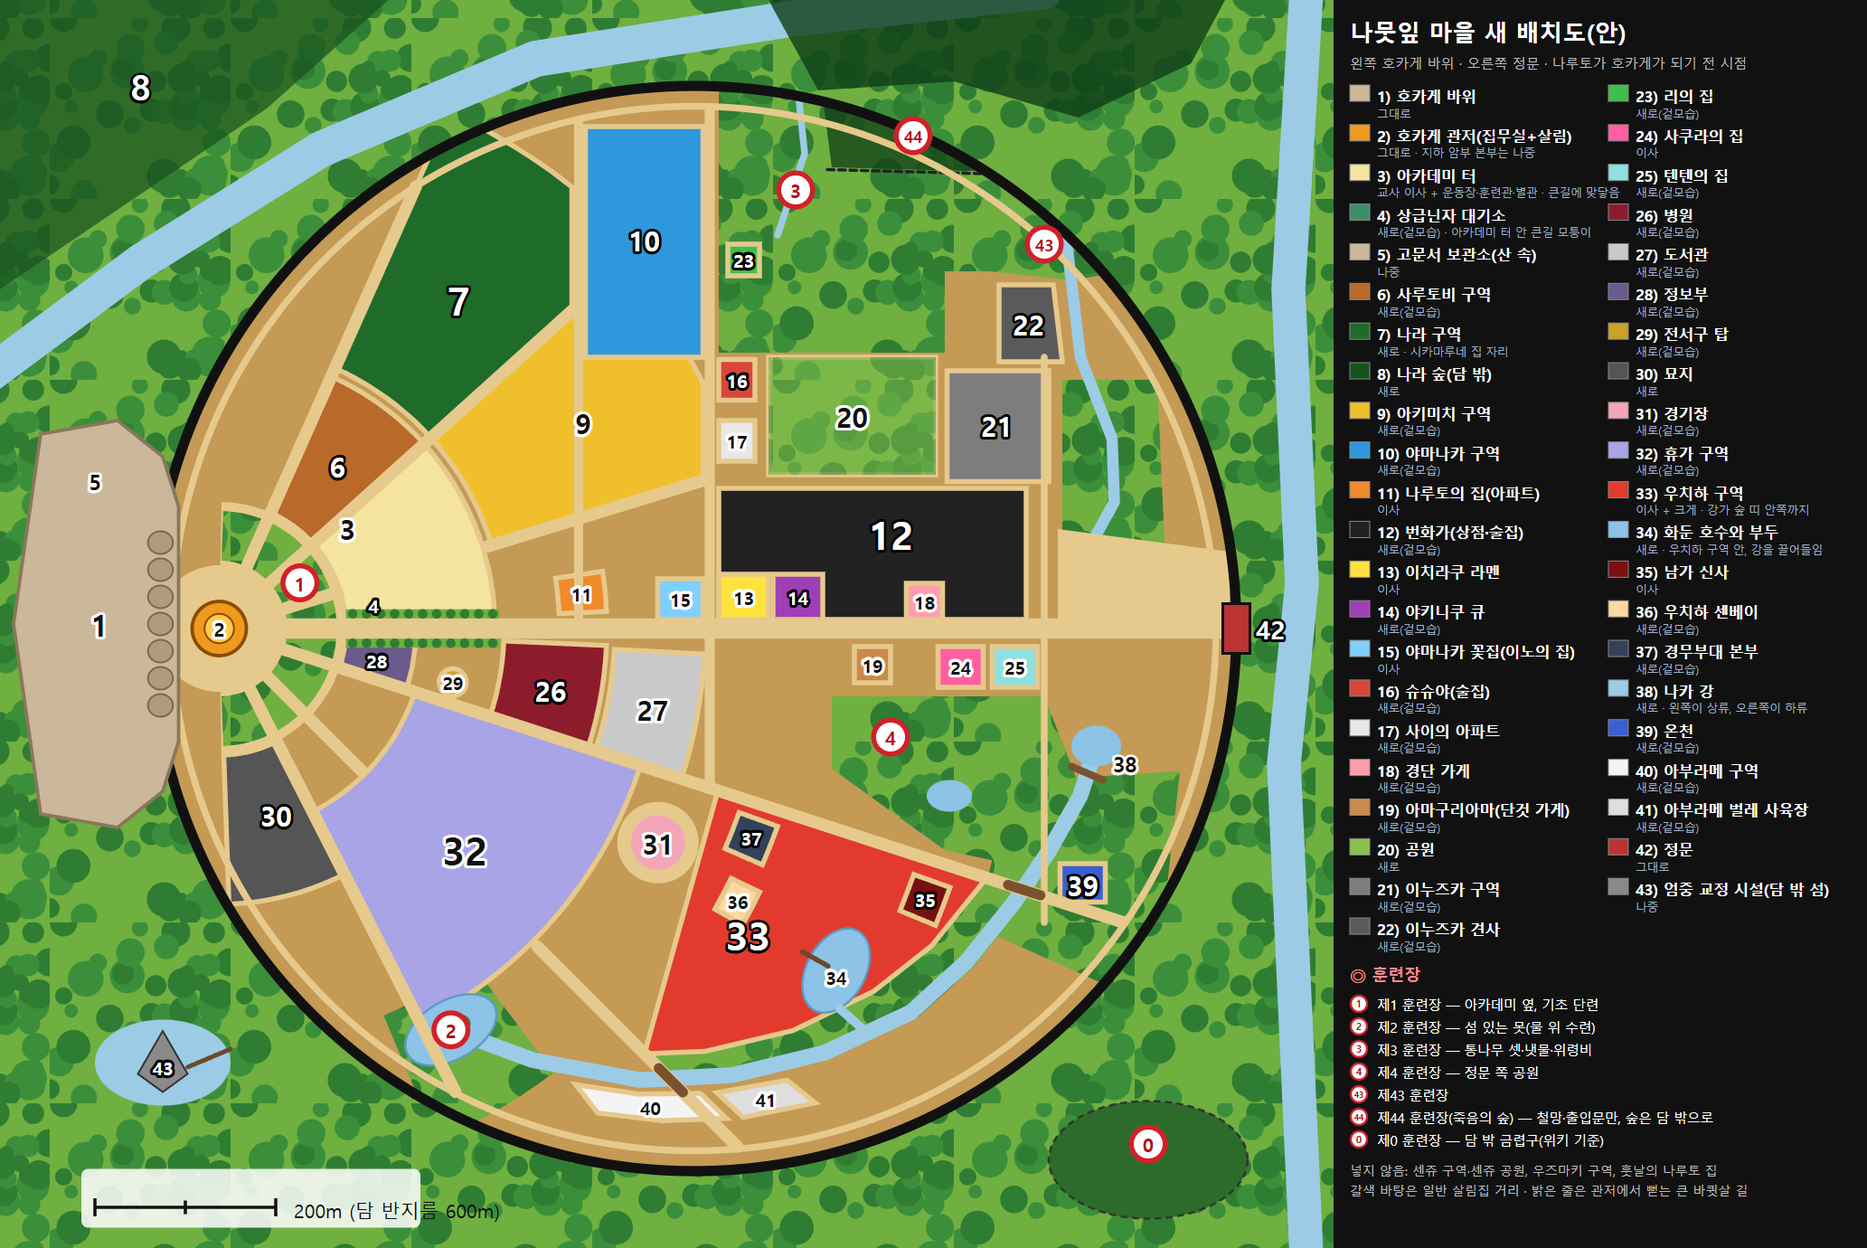
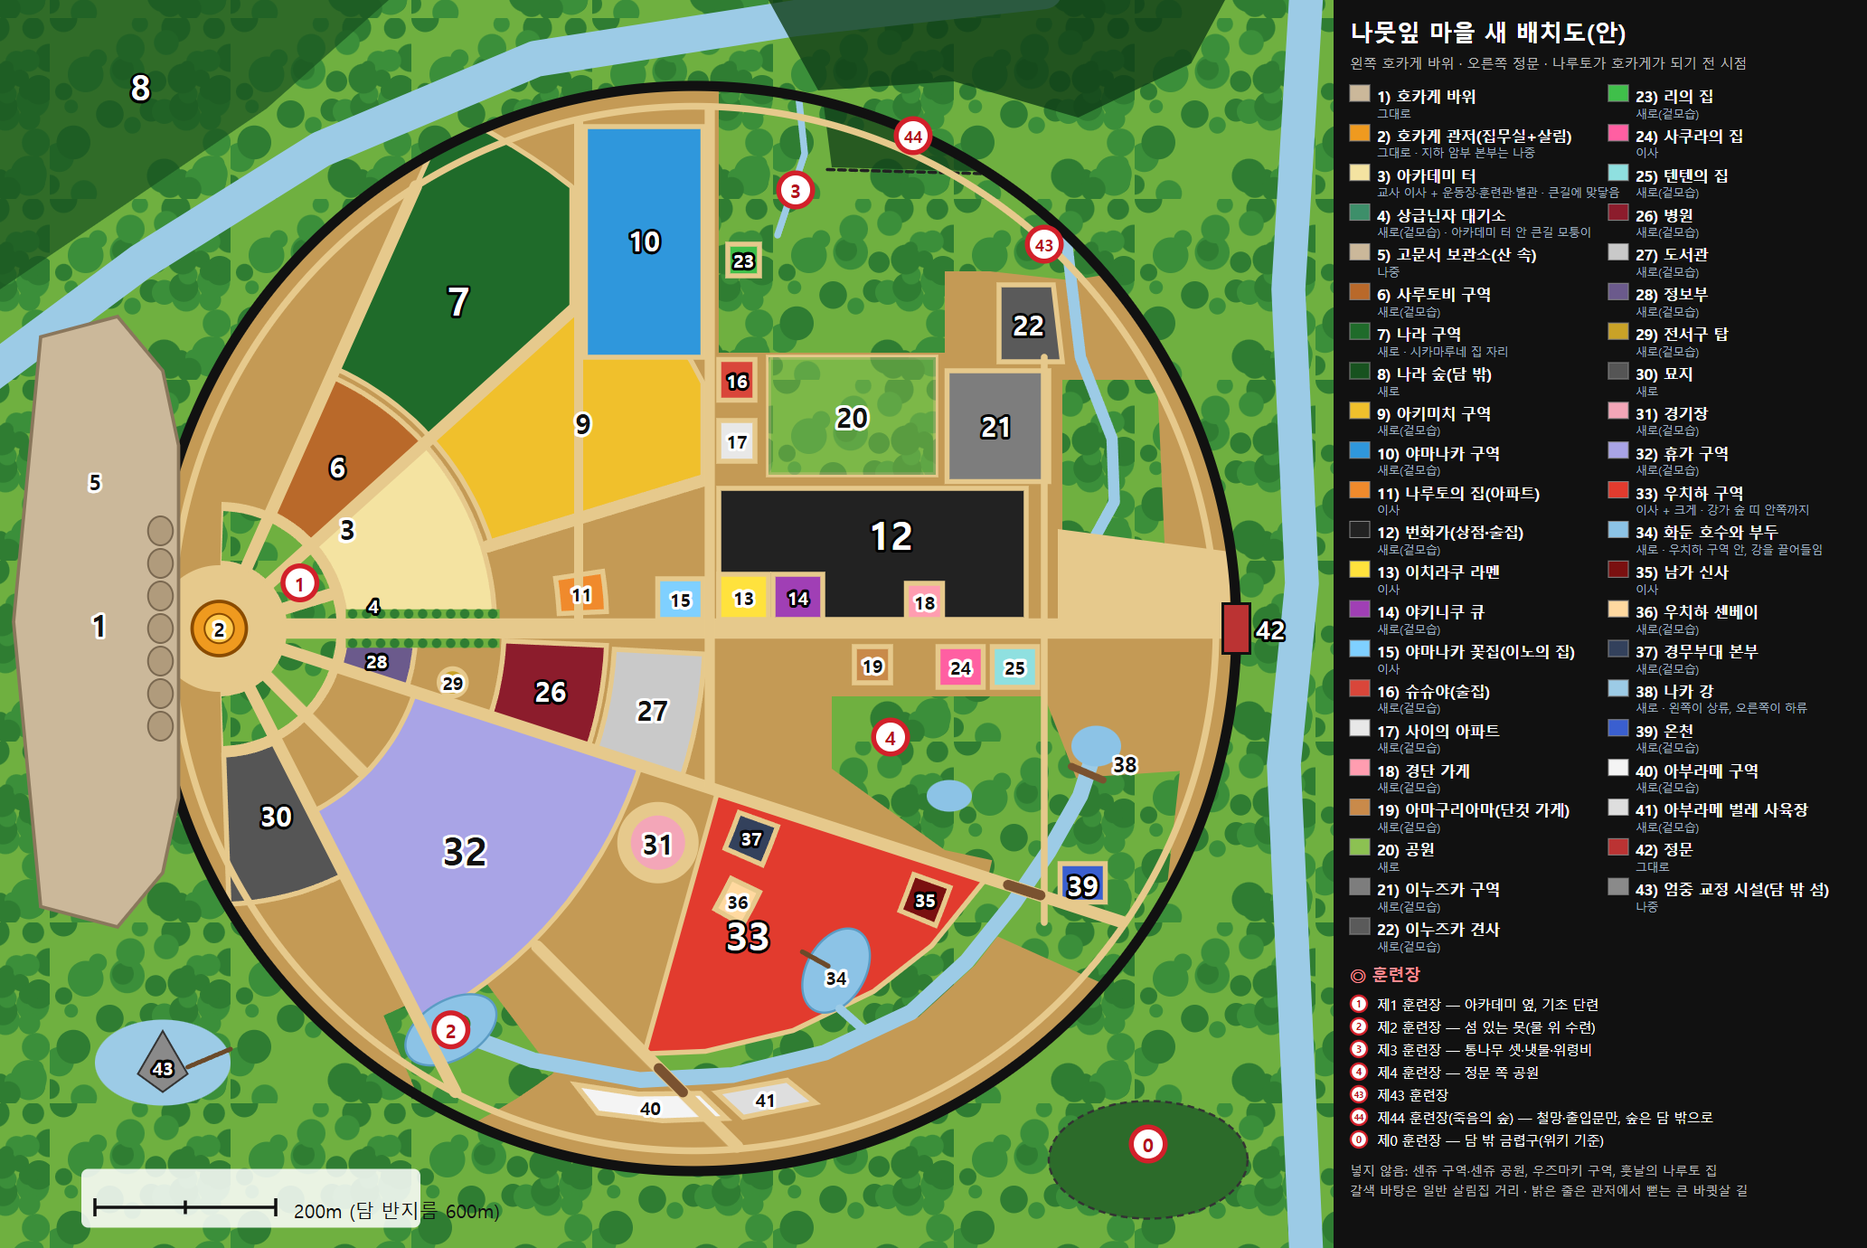
호카게 바위 1.8배, 관저 몸체 1.3배로 키움
- 바위: 얼굴·굴곡은 처음 치수로 계산하고 절벽을 뜰 때 키운다(꼭대기 108m, 삼각형 수는 그대로). 계단은 새 높이에 맞춰 아홉 층으로 다시 지음
- 관저: 벽·바닥·지붕·계단만 키우고 가구·난간·등불·실내 팻말은 사람 크기 그대로 키운 자리에 놓음
- 배치도의 바위 그림도 넓힘

Changed region(s): [[0.0, 0.2493, 0.124, 0.4674], [0.0, 0.5609, 0.124, 0.7478], [0.062, 0.4051, 0.093, 0.592]]

diff --git a/js/rock.js b/js/rock.js
@@ -4,10 +4,12 @@ import * as THREE from '../vendor/three.module.js';
 import { Builder, addCollider, stairs } from './build.js';
 import { mat, M, weatherize } from './materials.js';
 import { beamBetween, railing } from './arch.js';
-import { CLIFF } from './layout.js';
+import { CLIFF, STAIR } from './layout.js';
 import { mountainH } from './village.js';
 
 const NEG = -40;
+// 얼굴과 바위 굴곡은 처음 빚은 크기(꼭대기 60m)로 계산하고, 절벽을 뜰 때 K배로 키운다.
+const K = CLIFF.k, TOP0 = CLIFF.top / K;
 const clamp = (x, a, b) => Math.max(a, Math.min(b, x));
 const sstep = (a, b, x) => { const t = clamp((x - a) / (b - a), 0, 1); return t * t * (3 - 2 * t); };
 // 부드럽게 이어 붙이는 최댓값(k가 클수록 둥글게 섞인다)
@@ -74,7 +76,8 @@ const HOKAGE = [
     fans: [[8, -108, 108, 3.6, 2.3, 0, 0, 17], [7, -85, 85, 2.6, 1.8, 0, 1.1, 18]],
     lines: [[[-2.4, -1.4], [-4.7, -0.9]], [[-2.4, -2.4], [-4.8, -2.4]], [[-2.4, -3.4], [-4.5, -3.9]], [[2.4, -1.4], [4.7, -0.9]], [[2.4, -2.4], [4.8, -2.4]], [[2.4, -3.4], [4.5, -3.9]]] },
 ];
-export const HEAD_X = i => -60 + 20 * i, HEAD_Y = 37.5, HEAD_S = 1.42;
+const HX0 = i => -60 + 20 * i, HY0 = 37.5, HS0 = 1.42;                                  // 처음 크기에서의 얼굴 자리·크기
+export const HEAD_X = i => HX0(i) * K, HEAD_Y = HY0 * K, HEAD_S = HS0 * K;               // 마을 좌표(m)
 
 const hs = (i, s) => { const j = Math.sin(i * 12.9898 + s * 78.233) * 43758.5453; return j - Math.floor(j); };
 // 매듭점 사이를 잇는 값. smooth면 부드럽게, 아니면 곧게(각진 윤곽).
@@ -204,8 +207,8 @@ function vn(x, y) {
 function rockDepth(x, y) {
   const gully = 1 - Math.abs(2 * vn(x * 0.09 + 5.2, y * 0.012) - 1);
   const ledge = vn(x * 0.03 + 9.1, y * 0.33);
-  let d = 0.055 * (CLIFF.top - y) + 1.5 * gully * gully + 0.8 * ledge + 0.7 * vn(x * 0.11, y * 0.11);
-  d *= 1 - sstep(74, 80, x) * sstep(124, 118, x);                  // 계단이 붙는 자리는 반반하게 깎는다
+  let d = 0.055 * (TOP0 - y) + 1.5 * gully * gully + 0.8 * ledge + 0.7 * vn(x * 0.11, y * 0.11);
+  d *= 1 - sstep((STAIR.x0 - 12) / K, (STAIR.x0 - 6) / K, x) * sstep((STAIR.x1 + 12) / K, (STAIR.x1 + 6) / K, x);                  // 계단이 붙는 자리는 반반하게 깎는다
   return d;
 }
 function cliffDepth(x, y) {
@@ -213,29 +216,29 @@ function cliffDepth(x, y) {
   const i0 = Math.floor((x + 60) / 20);
   for (const i of [i0, i0 + 1]) {
     if (i < 0 || i > 6) continue;
-    const u = (x - HEAD_X(i)) / HEAD_S, v = (y - HEAD_Y) / HEAD_S;
+    const u = (x - HX0(i)) / HS0, v = (y - HY0) / HS0;
     if (Math.abs(u) > 11.5 || v < -16.5 || v > 15.5) continue;
     h = Math.max(h, headDepth(HOKAGE[i], u, v));
     near = Math.max(near, sstep(1.25, 0.8, Math.hypot(u / 8.4, (v - 0.5) / 15)));       // 얼굴 둘레는 바위를 얕게 쳐냈다
   }
   d *= 1 - 0.5 * near;
-  if (h > NEG) d = smax(d, h * HEAD_S + 1.8 + 0.07 * (vn(x * 1.7, y * 1.7) - 0.5) + 0.1 * (vn(x * 0.55 + 3.0, y * 0.55) - 0.5), 1.0);   // 정으로 쪼은 자국
+  if (h > NEG) d = smax(d, h * HS0 + 1.8 + 0.07 * (vn(x * 1.7, y * 1.7) - 0.5) + 0.1 * (vn(x * 0.55 + 3.0, y * 0.55) - 0.5), 1.0);   // 정으로 쪼은 자국
   return d;
 }
 
 function buildCliff(scene, mobile) {
   // 얼굴이 있는 가운데는 촘촘하게, 바깥은 성기게 나눈 격자
-  const xs = [], ys = [], FINE = mobile ? 0.26 : 0.16, X1 = 77, Y0 = 13.5, Y1 = 59.2, W = CLIFF.half + CLIFF.fall + 6;
+  const xs = [], ys = [], FINE = mobile ? 0.26 : 0.16, X1 = 77, Y0 = 13.5, Y1 = 59.2, W = (CLIFF.half + CLIFF.fall + 6) / K;
   for (let x = -W; x < -X1; x += 1.5) xs.push(x);
   for (let x = -X1; x < X1; x += FINE) xs.push(x);
   for (let x = X1; x <= W + 0.01; x += 1.5) xs.push(x);
   for (let y = -1; y < Y0; y += 1.5) ys.push(y);
   for (let y = Y0; y < Y1; y += FINE) ys.push(y);
-  for (let y = Y1; y < CLIFF.top; y += 1.5) ys.push(y);
-  ys.push(CLIFF.top);
+  for (let y = Y1; y < TOP0; y += 1.5) ys.push(y);
+  ys.push(TOP0);
   const nx = xs.length, ny = ys.length, D = new Float32Array(nx * ny), Yv = new Float32Array(nx * ny);
   for (let i = 0; i < nx; i++) {
-    const top = mountainH(xs[i], CLIFF.z - 1);
+    const top = mountainH(xs[i] * K, CLIFF.z - 1) / K;
     for (let j = 0; j < ny; j++) {
       const y = Math.min(ys[j], top);
       Yv[j * nx + i] = y;
@@ -246,12 +249,12 @@ function buildCliff(scene, mobile) {
   const at = (i, j) => D[clamp(j, 0, ny - 1) * nx + clamp(i, 0, nx - 1)];
   for (let j = 0; j < ny; j++) for (let i = 0; i < nx; i++) {
     const k = j * nx + i, x = xs[i], y = Yv[k], d = D[k];
-    pos[k * 3] = x; pos[k * 3 + 1] = y; pos[k * 3 + 2] = CLIFF.z + d;
+    pos[k * 3] = x * K; pos[k * 3 + 1] = y * K; pos[k * 3 + 2] = CLIFF.z + d * K;
     const i0 = Math.max(0, i - 1), i1 = Math.min(nx - 1, i + 1), j0 = Math.max(0, j - 1), j1 = Math.min(ny - 1, j + 1);
     const dx = (at(i1, j) - at(i0, j)) / Math.max(1e-3, xs[i1] - xs[i0]), dy = (at(i, j1) - at(i, j0)) / Math.max(1e-3, Yv[j1 * nx + i] - Yv[j0 * nx + i]);
     const l = 1 / Math.hypot(dx, dy, 1);
     nor[k * 3] = -dx * l; nor[k * 3 + 1] = -dy * l; nor[k * 3 + 2] = l;
-    uv[k * 2] = x + d * 0.8; uv[k * 2 + 1] = y + d * 0.6;                 // 튀어나온 옆면에서 무늬가 길게 늘어지지 않게
+    uv[k * 2] = (x + d * 0.8) * K; uv[k * 2 + 1] = (y + d * 0.6) * K;                 // 튀어나온 옆면에서 무늬가 길게 늘어지지 않게
     // 팬 곳은 어둡게, 도드라진 곳은 밝게(흐린 날에도 얼굴 윤곽이 읽힌다)
     const s = 3, avg = (at(i - s, j) + at(i + s, j) + at(i, j - s) + at(i, j + s)) / 4;
     const span = Math.max(xs[Math.min(nx - 1, i + s)] - xs[Math.max(0, i - s)], 0.5);
@@ -277,20 +280,22 @@ function buildCliff(scene, mobile) {
   mesh.castShadow = true; mesh.receiveShadow = true; mesh.matrixAutoUpdate = false;
   scene.add(mesh);
   // 걸어서 뚫고 들어가지 못하게(아래로 갈수록 앞으로 나온 만큼 계단식으로 막는다)
-  const Wc = CLIFF.half + CLIFF.fall;
-  for (const [xa, xb] of [[-Wc, 78], [122, Wc]]) {
-    addCollider(xa, 0, CLIFF.z - 8, xb, 12, CLIFF.z + 4.6);
-    addCollider(xa, 12, CLIFF.z - 8, xb, 30, CLIFF.z + 3.0);
-    addCollider(xa, 30, CLIFF.z - 8, xb, 59.6, CLIFF.z + 0.6);
+  const Wc = CLIFF.half + CLIFF.fall, yTop = CLIFF.top - 0.7;
+  for (const [xa, xb] of [[-Wc, STAIR.x0 - 8], [STAIR.x1 + 8, Wc]]) {
+    addCollider(xa, 0, CLIFF.z - 8, xb, 12 * K, CLIFF.z + 4.6 * K);
+    addCollider(xa, 12 * K, CLIFF.z - 8, xb, 30 * K, CLIFF.z + 3.0 * K);
+    addCollider(xa, 30 * K, CLIFF.z - 8, xb, yTop, CLIFF.z + 0.6 * K);
   }
-  addCollider(78, 0, CLIFF.z - 8, 122, 59.6, CLIFF.z + 0.25);
+  addCollider(STAIR.x0 - 8, 0, CLIFF.z - 8, STAIR.x1 + 8, yTop, CLIFF.z + 0.25);
 }
 
-/* ---------- 바위 꼭대기로 오르는 계단(절벽 동쪽에 붙은 네 번 꺾이는 나무 계단) ---------- */
+/* ---------- 바위 꼭대기로 오르는 계단(절벽 동쪽에 붙은, 여러 번 꺾이는 나무 계단) ---------- */
+const NF = Math.round(CLIFF.top / 12), RISE = CLIFF.top / NF;      // 꺾이는 층 수, 한 층에 오르는 높이
 function buildStairs(scene) {
   const B = new Builder(), step = mat('planks', 0x8a6844), post = M.beam;
-  const zA0 = CLIFF.z + 0.4, zA1 = CLIFF.z + 2.1, zB0 = zA1, zB1 = CLIFF.z + 3.8, xW = 85, xE = 115, RISE = 15;
-  const flights = [[zB0, zB1, 1, 0], [zA0, zA1, -1, RISE], [zB0, zB1, 1, RISE * 2], [zA0, zA1, -1, RISE * 3]];   // [z 범위, 오르는 방향, 시작 높이]
+  const zA0 = CLIFF.z + 0.4, zA1 = CLIFF.z + 2.1, zB0 = zA1, zB1 = CLIFF.z + 3.8, xW = STAIR.x0, xE = STAIR.x1, NS = Math.round(RISE / 0.2);
+  const flights = [];                                                  // [z 범위, 오르는 방향, 시작 높이] — 바깥 줄과 절벽 쪽 줄을 번갈아 오른다
+  for (let i = 0; i < NF; i++) flights.push(i % 2 ? [zA0, zA1, -1, RISE * i] : [zB0, zB1, 1, RISE * i]);
   for (const [z0, z1, dir, y0] of flights) {
     const top = dir > 0 ? xE : xW, bot = dir > 0 ? xW : xE;
     stairs(B, step, 'x', top, -dir, y0, y0 + RISE, z0, z1, 0.4, 0.12);
@@ -299,8 +304,9 @@ function buildStairs(scene) {
     for (const z of [z0 + 0.05, z1 - 0.05]) {
       if (z < CLIFF.z + 0.6) continue;                                   // 절벽 쪽은 바위가 막아 준다
       for (const h of [1.05, 0.55]) beamBetween(B, post, new THREE.Vector3(bot, y0 + h, z), new THREE.Vector3(top, y0 + RISE + h, z), 0.07, 0.07);
-      for (let k = 0; k <= 75; k += 3) { const x = bot + (top - bot) * k / 75, y = y0 + RISE * k / 75; B.box(post, x - 0.035, y - 0.1, z - 0.035, x + 0.035, y + 1.05, z + 0.035, false); }
-      for (let k = 0; k < 25; k++) { const xa = bot + (top - bot) * k / 25, xb = bot + (top - bot) * (k + 1) / 25, y = y0 + RISE * k / 25; addCollider(Math.min(xa, xb), y, z - 0.05, Math.max(xa, xb), y + RISE / 25 + 1.1, z + 0.05); }
+      for (let k = 0; k <= NS; k += 3) { const x = bot + (top - bot) * k / NS, y = y0 + RISE * k / NS; B.box(post, x - 0.035, y - 0.1, z - 0.035, x + 0.035, y + 1.05, z + 0.035, false); }
+      const NC = Math.round(NS / 3);
+      for (let k = 0; k < NC; k++) { const xa = bot + (top - bot) * k / NC, xb = bot + (top - bot) * (k + 1) / NC, y = y0 + RISE * k / NC; addCollider(Math.min(xa, xb), y, z - 0.05, Math.max(xa, xb), y + RISE / NC + 1.1, z + 0.05); }
     }
   }
   // 까치발: 절벽에 박은 가로대와 그 밑의 빗대
@@ -309,40 +315,43 @@ function buildStairs(scene) {
     B.box(post, x - 0.08, y - 0.18, CLIFF.z - 0.3, x + 0.08, y, zOut, false);
     beamBetween(B, post, new THREE.Vector3(x, y - 0.1, zOut - 0.15), new THREE.Vector3(x, y - 0.1 - (zOut - CLIFF.z) * 0.9, CLIFF.z + 0.05), 0.12, 0.14);
   };
-  // 층계참
-  const landing = (x0, x1, y, open) => {
+  // 층계참(동쪽·서쪽 끝에 번갈아 놓인다)
+  const landing = (side, y) => {
+    const x0 = side === 'e' ? xE : xW - 3, x1 = x0 + 3;
     B.box(step, x0, y - 0.14, zA0, x1, y, zB1);
-    const xo = open === 'e' ? x1 : x0;                                     // 바깥쪽 끝
+    const xo = side === 'e' ? x1 : x0;                                     // 바깥쪽 끝
     railing(B, post, [[xo, zA0 + 0.05], [xo, zB1 - 0.05]], y, 1.05);
     railing(B, post, [[x0, zB1 - 0.05], [x1, zB1 - 0.05]], y, 1.05);
     for (const x of [x0 + 0.2, x1 - 0.2]) bracket(x, y - 0.14, zB1 - 0.1);
   };
-  landing(xE, xE + 3, RISE, 'e'); landing(xW - 3, xW, RISE * 2, 'w'); landing(xE, xE + 3, RISE * 3, 'e');
+  for (let i = 1; i < NF; i++) landing(i % 2 ? 'e' : 'w', RISE * i);
   // 맨 위 층계참은 바위 꼭대기와 이어진다
-  B.box(step, xW - 3, RISE * 4 - 0.14, CLIFF.z - 0.6, xW, RISE * 4, zB1);
-  railing(B, post, [[xW - 3, CLIFF.z + 0.3], [xW - 3, zB1 - 0.05], [xW, zB1 - 0.05]], RISE * 4, 1.05);
-  for (const x of [xW - 2.8, xW - 0.2]) bracket(x, RISE * 4 - 0.14, zB1 - 0.1);
+  const tx0 = NF % 2 ? xE : xW - 3, tx1 = tx0 + 3, yT = CLIFF.top, xo = NF % 2 ? tx1 : tx0, xi = NF % 2 ? tx0 : tx1;
+  B.box(step, tx0, yT - 0.14, CLIFF.z - 0.6, tx1, yT, zB1);
+  railing(B, post, [[xo, CLIFF.z + 0.3], [xo, zB1 - 0.05], [xi, zB1 - 0.05]], yT, 1.05);
+  for (const x of [tx0 + 0.2, tx1 - 0.2]) bracket(x, yT - 0.14, zB1 - 0.1);
   // 계단 밑 까치발
   for (const [z0, z1, dir, y0] of flights) for (let k = 1; k < 8; k++) {
     const x = xW + (xE - xW) * k / 8, y = y0 + RISE * (dir > 0 ? k / 8 : 1 - k / 8);
     bracket(x, y - 0.42, z1 - 0.02);
   }
   // 꼭대기 전망대 난간(계단 입구만 틔운다)
-  const yT = CLIFF.top, zr = CLIFF.z - 0.9;
-  railing(B, post, [[-124, zr], [xW - 3.2, zr]], yT, 1.1, { gap: 0.3 });
-  railing(B, post, [[xW + 0.2, zr], [124, zr]], yT, 1.1, { gap: 0.3 });
+  const zr = CLIFF.z - 0.9, xr = CLIFF.half - 6;
+  railing(B, post, [[-xr, zr], [tx0 - 0.2, zr]], yT, 1.1, { gap: 0.3 });
+  railing(B, post, [[tx1 + 0.2, zr], [xr, zr]], yT, 1.1, { gap: 0.3 });
   B.finish(scene);
 }
 
 export function build(scene, ctx) {
   buildCliff(scene, ctx && ctx.mobile);   // 폰에서는 격자를 성기게
   buildStairs(scene);
-  const places = HOKAGE.map((h, i) => ({ n: '호카게 바위 꼭대기', t: '발아래가 ' + h.name + '의 얼굴이다.', b: [HEAD_X(i) - 10, HEAD_X(i) + 10, CLIFF.z - 30, CLIFF.z + 1], y: [50, 90] }));
-  places.push({ n: '호카게 바위', t: '역대 호카게 일곱 사람의 얼굴. 왼쪽부터 하시라마, 토비라마, 히루젠, 미나토, 츠나데, 카카시, 나루토.', b: [-75, 75, CLIFF.z, CLIFF.z + 14], y: [0, 40] });
-  places.push({ n: '바위 오르는 계단', t: '절벽에 붙여 지은 나무 계단. 네 번 꺾어 오르면 호카게 바위 꼭대기다.', b: [80, 120, CLIFF.z, CLIFF.z + 5], y: [0, 70] });
-  places.push({ n: '호카게 바위 꼭대기', t: '마을이 한눈에 내려다보인다.', b: [-190, 190, CLIFF.z - 120, CLIFF.z + 1], y: [50, 90] });
+  const yTop = [CLIFF.top - 10, CLIFF.top + 30], Wc = CLIFF.half + CLIFF.fall;
+  const places = HOKAGE.map((h, i) => ({ n: '호카게 바위 꼭대기', t: '발아래가 ' + h.name + '의 얼굴이다.', b: [HEAD_X(i) - 10 * K, HEAD_X(i) + 10 * K, CLIFF.z - 30, CLIFF.z + 1], y: yTop }));
+  places.push({ n: '호카게 바위', t: '역대 호카게 일곱 사람의 얼굴. 왼쪽부터 하시라마, 토비라마, 히루젠, 미나토, 츠나데, 카카시, 나루토.', b: [-75 * K, 75 * K, CLIFF.z, CLIFF.z + 22], y: [0, 40] });
+  places.push({ n: '바위 오르는 계단', t: '절벽에 붙여 지은 나무 계단. 이리저리 꺾어 오르면 호카게 바위 꼭대기다.', b: [STAIR.x0 - 6, STAIR.x1 + 6, CLIFF.z, CLIFF.z + 5], y: [0, CLIFF.top + 10] });
+  places.push({ n: '호카게 바위 꼭대기', t: '마을이 한눈에 내려다보인다.', b: [-Wc, Wc, CLIFF.z - 120, CLIFF.z + 1], y: yTop });
   return {
     places,
-    jumps: [['호카게 바위 앞', 0, 0, -62, 0, 2], ['바위 꼭대기', 0, CLIFF.top, CLIFF.z - 6, Math.PI, 3], ['바위 오르는 계단', 84, 0, CLIFF.z + 8, 0, 4]],
+    jumps: [['호카게 바위 앞', 0, 0, -62, 0, 2], ['바위 꼭대기', 0, CLIFF.top, CLIFF.z - 6, Math.PI, 3], ['바위 오르는 계단', STAIR.x0 - 1, 0, CLIFF.z + 8, 0, 4]],
   };
 }

diff --git a/js/village.js b/js/village.js
@@ -4,7 +4,7 @@ import * as THREE from '../vendor/three.module.js';
 import { Builder, addCollider, mat4 } from './build.js';
 import { mat, M, weatherize } from './materials.js';
 import { signBoard } from './arch.js';
-import { CLIFF, WALL } from './layout.js';
+import { CLIFF, STAIR, WALL } from './layout.js';
 import { PLAN } from './plan-data.js';
 
 /* ---------- 땅 높이 ---------- */
@@ -84,7 +84,7 @@ function buildGround(scene, tintOn) {
   g.beginPath(); g.arc(px(PLAN.fan[0]), pz(PLAN.fan[1]), PLAN.forecourt * k, 0, Math.PI * 2); g.fill();   // 관저 앞마당
   g.beginPath(); g.arc(px(0), pz(WALL.gateZ + 7), 26 * k, 0, Math.PI * 2); g.fill();                        // 정문 앞마당
   g.fillRect(px(-7), pz(WALL.gateZ + 5), 14 * k, 90 * k);                                                    // 정문 밖 길
-  g.fillRect(px(78), pz(CLIFF.z), 44 * k, 14 * k); stroke([58, -122], [100, -142], 9);                       // 바위 오르는 계단 밑과 거기로 가는 길
+  g.fillRect(px(STAIR.x0 - 7), pz(CLIFF.z), (STAIR.x1 - STAIR.x0 + 14) * k, 14 * k); stroke([60, -124], [STAIR.x0 + 4, -141], 9);                       // 바위 오르는 계단 밑과 거기로 가는 길
   for (const b of PLAN.bridges) stroke(b[0], b[1], 8);
   const mask = new THREE.CanvasTexture(c);
   mask.flipY = false; mask.colorSpace = THREE.NoColorSpace; mask.anisotropy = 8;
@@ -146,7 +146,7 @@ function buildGround(scene, tintOn) {
   mk(WALL.cx - FAR, WALL.cz - FAR, X0, WALL.cz + FAR, 40, far); mk(X1, WALL.cz - FAR, WALL.cx + FAR, WALL.cz + FAR, 40, far);
   mk(X0, WALL.cz - FAR, X1, Z0, 40, far); mk(X0, Z1, X1, WALL.cz + FAR, 40, far);
   // 산 위. 산자락이 땅과 같은 높이로 겹치면 깜빡이므로, 산이 끝난 자리는 땅 밑으로 내린다
-  mk(-200, CLIFF.z - 180, 200, CLIFF.z, 4, (x, z) => { const m = mountainH(x, Math.min(z, CLIFF.z - 0.01)), l = lowH(x, z); return m > l + 0.3 ? m : l - 1.5; });
+  mk(-(CLIFF.half + CLIFF.fall + 12), CLIFF.z - 180, CLIFF.half + CLIFF.fall + 12, CLIFF.z, 4, (x, z) => { const m = mountainH(x, Math.min(z, CLIFF.z - 0.01)), l = lowH(x, z); return m > l + 0.3 ? m : l - 1.5; });
 }
 
 /* ---------- 물 ---------- */

diff --git a/js/layout.js b/js/layout.js
@@ -3,12 +3,13 @@
 // 구역·길·물길의 자리는 배치도(plan/plan.mjs)에서 뽑은 plan-data.js 가 원본이다.
 import { PLAN } from './plan-data.js';
 
-export const CLIFF = { z: -150, top: 60, half: 130, fall: 55 };   // 절벽 앞면 z, 꼭대기 높이, 평평한 반폭, 양옆 비탈 폭
+export const CLIFF = { z: -150, k: 1.8, top: 108, half: 234, fall: 100 };   // 절벽 앞면 z, 바위 배율(처음 빚은 크기의 몇 배), 꼭대기 높이, 평평한 반폭, 양옆 비탈 폭
+export const STAIR = { x0: 146, x1: 170 };   // 바위 꼭대기로 오르는 계단이 붙는 자리(x 범위)
 export const WALL = { cx: PLAN.wall.cx, cz: PLAN.wall.cz, r: PLAN.wall.r, gateZ: PLAN.wall.cz + PLAN.wall.r };   // 마을을 두른 담과 남쪽 정문
 
 // ── 아래는 옛 배치(담 반지름 185m 시절)의 집터·길. 새 배치로 옮길 때까지 건물 파일들이 읽으므로 남겨 둔다.
 export const LOT = {
-  hokage:   { x0: -30, x1: 30, z0: -138, z1: -70, cx: 0, cz: -104, front: 's' },   // 호카게 관저(둥근 본채 중심 cx,cz) — 새 배치에서도 이 자리
+  hokage:   { x0: -38, x1: 38, z0: -128, z1: -60, cx: 0, cz: -104, front: 's' },   // 호카게 관저(둥근 본채 중심 cx,cz) — 새 배치에서도 이 자리
   academy:  { x0: 40, x1: 96, z0: -124, z1: -64, front: 's' },                     // 닌자 아카데미(남쪽이 운동장·정문)
   naruto:   { x0: -64, x1: -38, z0: -32, z1: -5, front: 's' },                     // 나루토의 집(공동주택)
   ino:      { x0: -28, x1: -7, z0: 38, z1: 58, front: 'e' },                       // 이노의 집(야마나카 꽃집) — 큰길 서쪽, 동쪽을 봄

diff --git a/js/build.js b/js/build.js
@@ -65,6 +65,23 @@ export function roofAt(x, z, limit) {
   return best;
 }
 
+// 지금까지 등록된 충돌 상자·지붕면의 개수(이 뒤에 등록되는 것만 골라 키울 때 쓴다)
+export const marks = () => [colliders.length, roofs.length];
+// from 뒤에 등록된 충돌 상자·지붕면을 (px, pz)를 중심으로 S배 키운다. keep에 든 번호의 충돌 상자는 그대로 둔다.
+export function rescale(from, S, px, pz, keep) {
+  for (let i = from[0]; i < colliders.length; i++) {
+    if (keep && keep.has(i)) continue;
+    const c = colliders[i];
+    c[0] = px + (c[0] - px) * S; c[3] = px + (c[3] - px) * S; c[2] = pz + (c[2] - pz) * S; c[5] = pz + (c[5] - pz) * S; c[1] *= S; c[4] *= S;
+  }
+  for (let i = from[1]; i < roofs.length; i++) {
+    const r = roofs[i], f = r[4];
+    r[0] = px + (r[0] - px) * S; r[2] = px + (r[2] - px) * S; r[1] = pz + (r[1] - pz) * S; r[3] = pz + (r[3] - pz) * S;
+    r[4] = (x, z) => S * f(px + (x - px) / S, pz + (z - pz) / S);
+  }
+  grid = null; roofGrid = null;
+}
+
 /* ---------- 조립기 ---------- */
 const _v = new THREE.Vector3(), _n = new THREE.Vector3(), _nm = new THREE.Matrix3();
 
